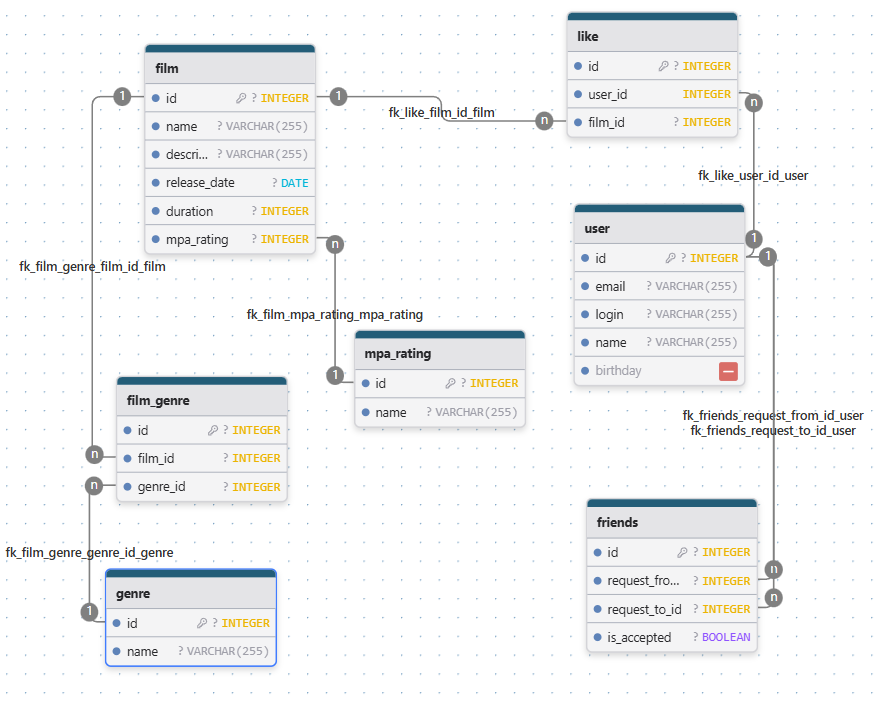
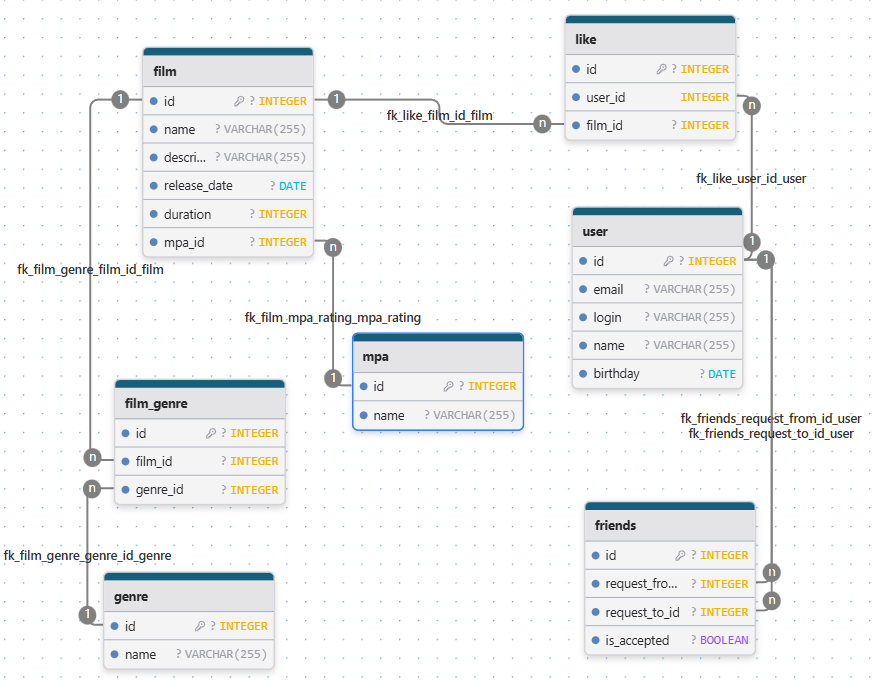
docs: README.md update

Changed region(s): [[0.0, 0.0, 0.9897, 0.9825]]

diff --git a/README.md b/README.md
@@ -1,5 +1,4 @@
 # java-filmorate
-Template repository for Filmorate project.
 
 ER-диаграмма базы данных проекта Filmorate
 ![ER-диаграмма](src/main/resources/er_diagram.png)
@@ -14,11 +13,11 @@ SELECT
     f.description,
     f.release_date,
     f.duration,
-    m.name AS mpa_rating_name,
+    m.name AS mpa_name,
     COUNT(l.id) AS likes_count,
     STRING_AGG(g.name, ', ') AS genres
 FROM film f
-LEFT JOIN mpa_rating m ON f.mpa_rating = m.id
+LEFT JOIN mpa m ON f.mpa_id = m.id
 LEFT JOIN "like" l ON f.id = l.film_id
 LEFT JOIN film_genre fg ON f.id = fg.film_id
 LEFT JOIN genre g ON fg.genre_id = g.id
@@ -48,27 +47,13 @@ GROUP BY f.id, f.name
 ORDER BY likes_count DESC
 LIMIT N;  -- например, 10
 ```
-- Список ID общих друзей двух пользователей
+- Список общих друзей двух пользователей (id=1, id=2)
 ```sql
-SELECT DISTINCT friend_id
-FROM (
-    SELECT 
-        CASE 
-            WHEN request_from_id = A THEN request_to_id 
-            ELSE request_from_id 
-        END AS friend_id
-    FROM friends 
-    WHERE (request_from_id = A OR request_to_id = A) 
-      AND is_accepted = TRUE
-) AS friends_of_A
-WHERE friend_id IN (
-    SELECT 
-        CASE 
-            WHEN request_from_id = B THEN request_to_id 
-            ELSE request_from_id 
-        END AS friend_id
-    FROM friends 
-    WHERE (request_from_id = B OR request_to_id = B) 
-      AND is_accepted = TRUE
-);
+SELECT u.* FROM "user" u
+JOIN friends a
+  ON a.request_to_id = u.id
+JOIN friends b
+  ON a.request_to_id = b.request_to_id
+WHERE a.request_from_id = 1
+  AND b.request_from_id = 2;
 ```
